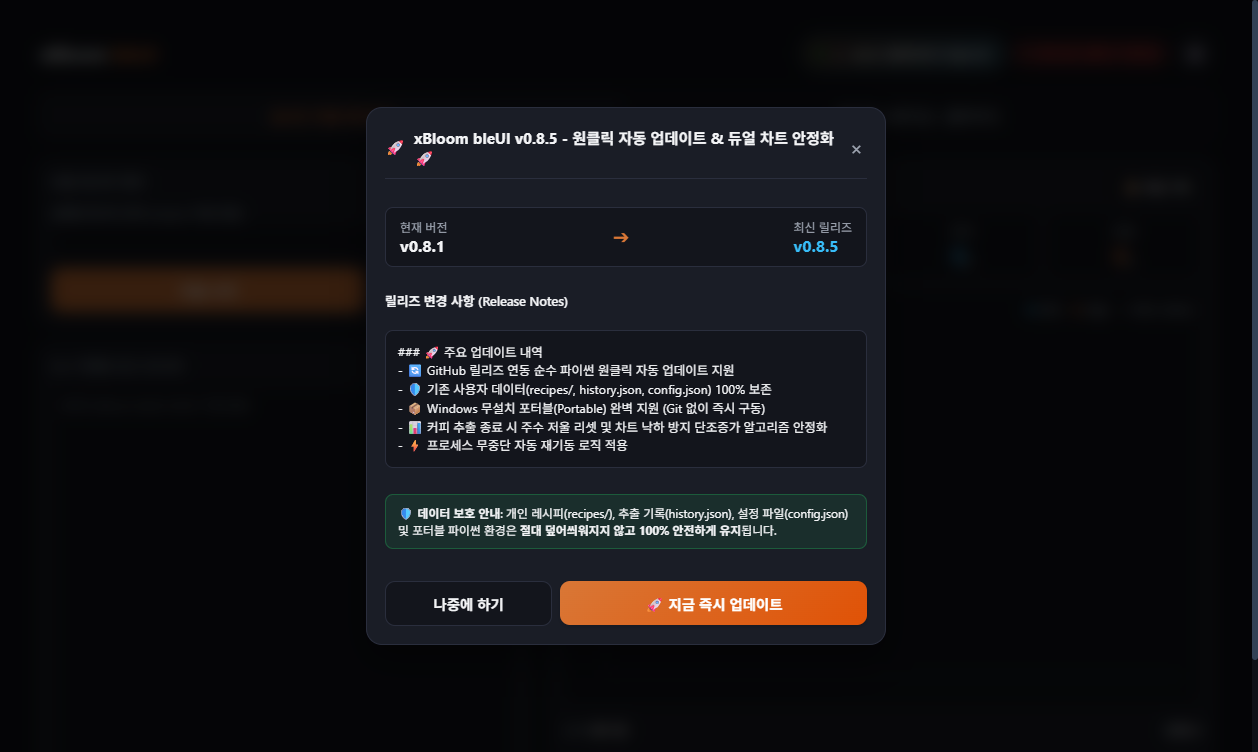
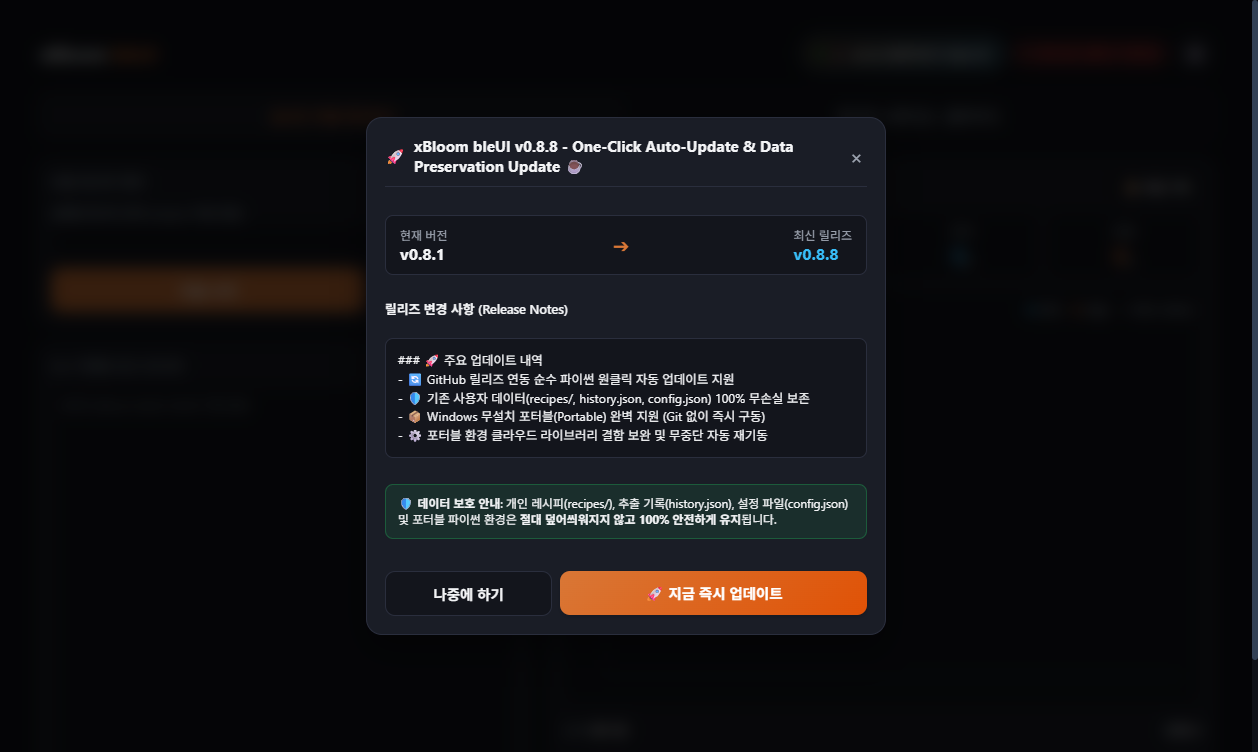
Release v0.8.8: One-Click Auto-Update & Data Preservation Update ☕

diff --git a/static/index.html b/static/index.html
@@ -663,7 +663,7 @@
         <div class="card log-card">
           <div class="card-title">BLE 이벤트 로그 모니터</div>
           <div class="log-box" id="logBox">
-            <div>[INIT] xBloom bleUI v0.8.5 구동 완료</div>
+            <div>[INIT] xBloom bleUI v0.8.8 구동 완료</div>
           </div>
         </div>
       </div>
@@ -1073,14 +1073,14 @@
       <div class="setting-row" style="border-top: 1px solid var(--border); padding-top: 12px; margin-top: 12px;">
         <div>
           <div class="setting-label">🚀 버전 및 자동 업데이트</div>
-          <div class="setting-desc" id="settingsVersionInfo">현재 버전: v0.8.5</div>
+          <div class="setting-desc" id="settingsVersionInfo">현재 버전: v0.8.8</div>
         </div>
         <button class="btn-secondary" id="btnManualCheckUpdate" onclick="manualCheckUpdate()" style="font-size:0.75rem; padding:6px 12px; cursor:pointer;">업데이트 확인</button>
       </div>
     </div>
 
     <div class="settings-footer">
-      <span>v0.8.5 by 팽이팽이</span>
+      <span>v0.8.8 by 팽이팽이</span>
     </div>
   </div>
 </div>
@@ -1098,12 +1098,12 @@
     <div style="margin: 14px 0 10px 0; display:flex; justify-content:space-between; align-items:center; background:var(--card-inner); padding:10px 14px; border-radius:8px; border:1px solid var(--border);">
       <div>
         <div style="font-size:0.75rem; color:var(--muted);">현재 버전</div>
-        <div style="font-weight:700; color:var(--text);" id="updateCurrentVer">v0.8.5</div>
+        <div style="font-weight:700; color:var(--text);" id="updateCurrentVer">v0.8.8</div>
       </div>
       <div style="font-size:1.1rem; color:var(--accent);">➔</div>
       <div>
         <div style="font-size:0.75rem; color:var(--muted);">최신 릴리즈</div>
-        <div style="font-weight:700; color:var(--sky);" id="updateLatestVer">v0.8.5</div>
+        <div style="font-weight:700; color:var(--sky);" id="updateLatestVer">v0.8.8</div>
       </div>
     </div>
 
@@ -1173,7 +1173,7 @@
       const badgeText = document.getElementById("updateBadgeText");
       const verDesc = document.getElementById("settingsVersionInfo");
       if (verDesc) {
-        verDesc.innerText = `현재 버전: v${data.current_version || "0.8.5"}`;
+        verDesc.innerText = `현재 버전: v${data.current_version || "0.8.8"}`;
       }
       if (data.update_available) {
         if (badgeBtn) {
@@ -1186,7 +1186,7 @@
       } else {
         if (badgeBtn) badgeBtn.style.display = "none";
         if (manual) {
-          alert(`현재 최신 버전(v${data.current_version || "0.8.5"})을 사용 중입니다.`);
+          alert(`현재 최신 버전(v${data.current_version || "0.8.8"})을 사용 중입니다.`);
         }
       }
     } catch (e) {
@@ -1213,8 +1213,8 @@
     const latestSpan = document.getElementById("updateLatestVer");
     const titleSpan = document.getElementById("updateModalTitle");
     const notesBox = document.getElementById("updateReleaseNotes");
-    if (currentSpan) currentSpan.innerText = `v${latestReleaseData.current_version || "0.8.5"}`;
-    if (latestSpan) latestSpan.innerText = `v${latestReleaseData.latest_version || "0.8.5"}`;
+    if (currentSpan) currentSpan.innerText = `v${latestReleaseData.current_version || "0.8.8"}`;
+    if (latestSpan) latestSpan.innerText = `v${latestReleaseData.latest_version || "0.8.8"}`;
     if (titleSpan) titleSpan.innerText = latestReleaseData.release_name || `xBloom bleUI v${latestReleaseData.latest_version} 업데이트`;
     if (notesBox) {
       notesBox.innerText = latestReleaseData.release_notes || "새로운 기능 개선 및 버그 수정이 포함되어 있습니다.";

diff --git a/server.py b/server.py
@@ -1,5 +1,5 @@
 import shutil
-'\nxBloom bleUI Local Web Server (v0.8.5)\n- 텔레메트리 콜백 직접 바인딩 (Bleak Notification 완벽 수신)\n- BLE 단일 세션 락(Lock) 적용으로 브루잉 도중 머신 리셋 차단\n- recipes/ 서버 직접 저장 및 푸어별 Agitation / Pattern 매핑\n- 그라인더 RPM 60~120 10단위 제어 지원\n- GitHub 릴리즈 연동 순수 파이썬 원클릭 자동 업데이트 지원 (데이터 100% 무손실 보존)\n'
+'\nxBloom bleUI Local Web Server (v0.8.8)\n- 텔레메트리 콜백 직접 바인딩 (Bleak Notification 완벽 수신)\n- BLE 단일 세션 락(Lock) 적용으로 브루잉 도중 머신 리셋 차단\n- recipes/ 서버 직접 저장 및 푸어별 Agitation / Pattern 매핑\n- 그라인더 RPM 60~120 10단위 제어 지원\n- GitHub 릴리즈 연동 순수 파이썬 원클릭 자동 업데이트 지원 (데이터 100% 무손실 보존)\n'
 import sys
 import os
 CURRENT_DIR = os.path.dirname(os.path.abspath(__file__))
@@ -19,7 +19,7 @@ from contextlib import asynccontextmanager
 from typing import Dict, Any, Optional, List
 import urllib.request
 import urllib.parse
-CURRENT_VERSION = '0.8.5'
+CURRENT_VERSION = '0.8.8'
 GITHUB_REPO = 'ennemate/xBloom-bleUI'
 import uvicorn
 import yaml

diff --git a/run.py b/run.py
@@ -11,7 +11,7 @@ DEFAULT_HOST = "0.0.0.0"
 
 def parse_args():
     parser = argparse.ArgumentParser(
-        description="xBloom bleUI v0.8.5 Launcher",
+        description="xBloom bleUI v0.8.8 Launcher",
         epilog="예시: python run.py 8080  또는  python run.py -p 8080"
     )
     # 위치 인자(선택사항)로 포트 번호 입력 허용 (예: python run.py 8080)
@@ -30,7 +30,7 @@ def main():
     port, host, no_browser, extra_args = parse_args()
     
     print("=" * 55)
-    print("  xBloom bleUI v0.8.5 런처")
+    print("  xBloom bleUI v0.8.8 런처")
     print(f"  - 웹 대시보드 URL : http://localhost:{port}")
     print(f"  - 포트 변경 방법   : python run.py [포트번호]  (예: python run.py 8080)")
     print("=" * 55)

diff --git a/README.md b/README.md
@@ -1,11 +1,11 @@
-# xBloom bleUI (v0.8.5)
+# xBloom bleUI (v0.8.8)
 
 <p align="center">
   <strong>xBloom Studio 커피 머신을 위한 모던 로컬 웹 대시보드 & 실시간 추출 분석 컨트롤러</strong>
 </p>
 
 <p align="center">
-  <img src="https://img.shields.io/badge/Version-0.8.5-orange.svg" alt="Version 0.8.5">
+  <img src="https://img.shields.io/badge/Version-0.8.8-orange.svg" alt="Version 0.8.8">
   <img src="https://img.shields.io/badge/Python-3.10%2B-blue.svg" alt="Python 3.10+">
   <img src="https://img.shields.io/badge/Hardware-xBloom%20Studio-38bdf8.svg" alt="Hardware xBloom Studio">
   <img src="https://img.shields.io/badge/Interface-FastAPI%20%7C%20Web%20WebSocket-success.svg" alt="Interface Web">
@@ -182,7 +182,7 @@
 ---
 
 ### 방법 A. Windows 포터블 무설치판 실행 (가장 추천)
-1. [Releases 페이지](https://github.com/ennemate/xBloom-bleUI/releases)에서 `xBloom-bleUI-v0.8.5-Windows-Portable.zip` 다운로드
+1. [Releases 페이지](https://github.com/ennemate/xBloom-bleUI/releases)에서 `xBloom-bleUI-v0.8.8-Windows-Portable.zip` 다운로드
 2. 원하는 폴더에 압축 해제
 3. 폴더 안의 **`run.bat`** 파일을 더블 클릭
    - 내장된 임베디드 파이썬 환경으로 서버가 자동 구동되며, 기본 웹 브라우저(`http://localhost:8000`)가 즉시 열립니다.
@@ -244,7 +244,7 @@
 xBloom-bleUI/
 ├── run.bat               # Windows 원클릭 실행 배치 파일 (포트 커스텀 지원)
 ├── run.py                # Python 크로스플랫폼 자동 브라우저 오픈 런처
-├── server.py             # 경량화/최적화된 FastAPI 백엔드 서버 (v0.8.5)
+├── server.py             # 경량화/최적화된 FastAPI 백엔드 서버 (v0.8.8)
 ├── requirements.txt      # 실행 필수 의존성 목록
 ├── config.example.json   # 기본 설정 참고용 템플릿 (기존 설정 덮어쓰기 방지)
 ├── README.md             # 프로젝트 상세 안내 문서 (이미지 포함)
